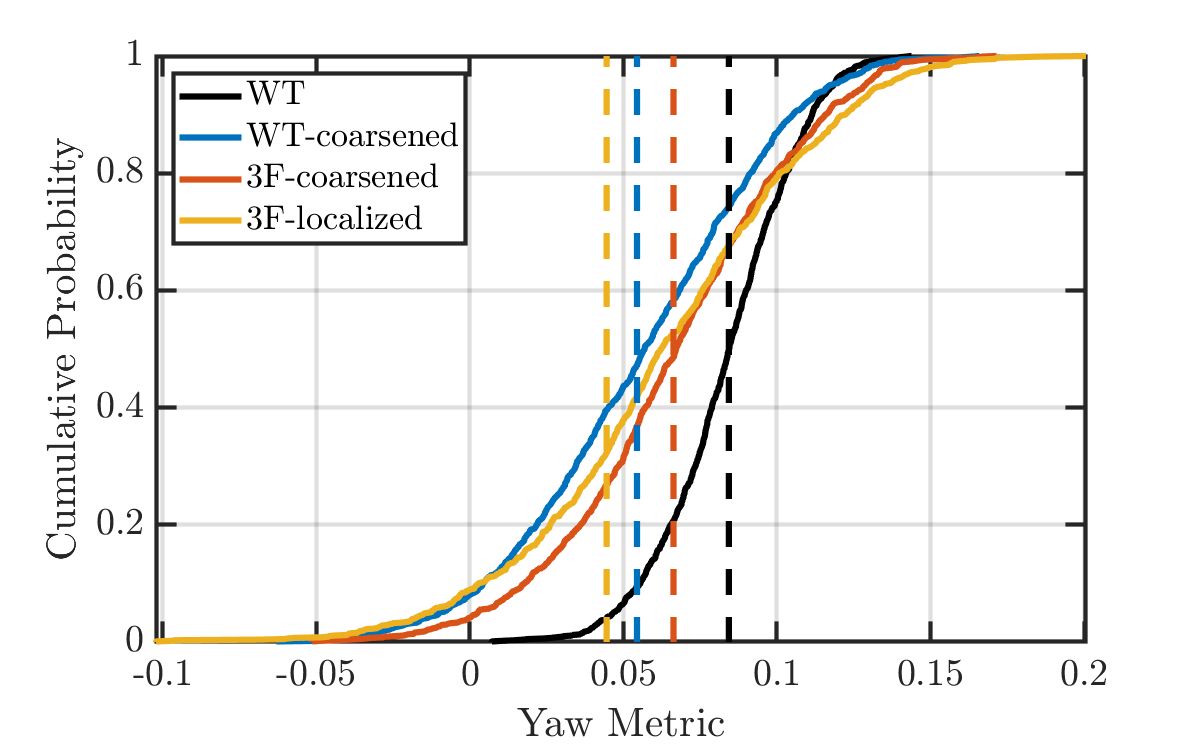
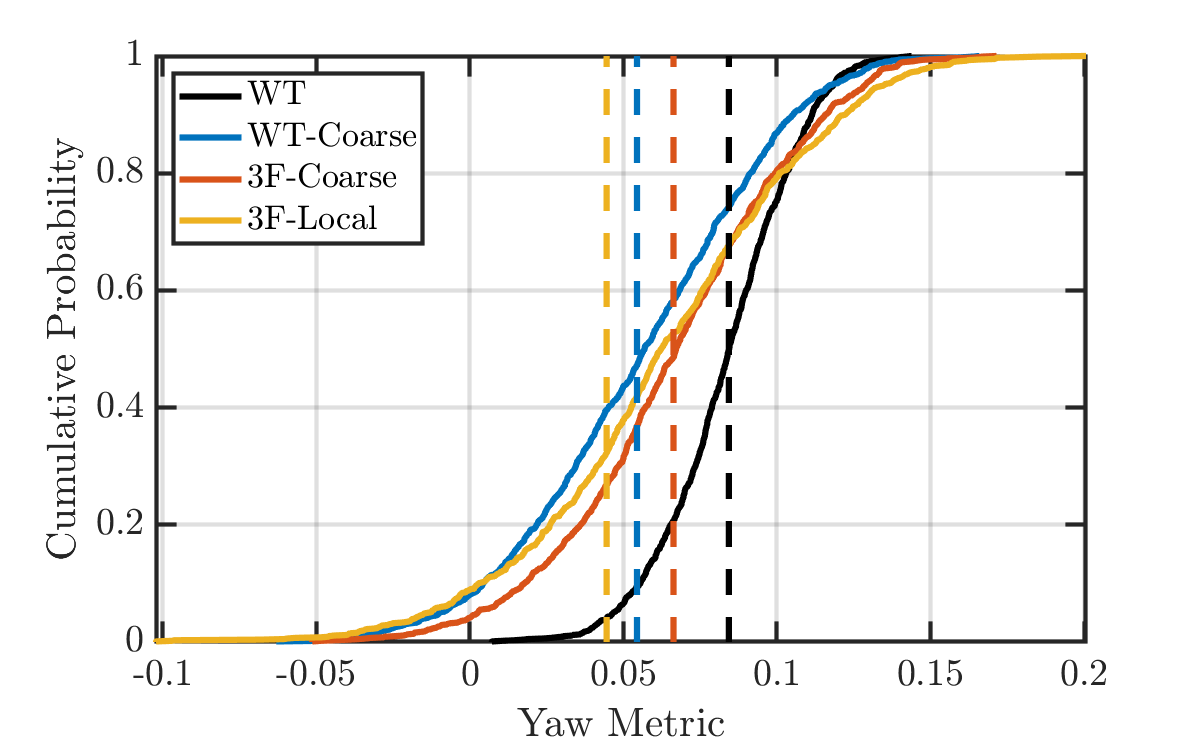
update red_data plots

Changed region(s): [[0.185, 0.092, 0.4008, 0.3373]]

diff --git a/code/image_gen/cba/Stanford_CFR25_147d_2_R2/reo_perf_metric_plots_reduced_data.m b/code/image_gen/cba/Stanford_CFR25_147d_2_R2/reo_perf_metric_plots_reduced_data.m
@@ -242,7 +242,7 @@ plot([perf_metrics_mean5.rightout.yaw2,perf_metrics_mean5.rightout.yaw2],[0 1],'
 set(gca,'FontWeight','bold');
 xlabel('Yaw Metric','FontWeight','bold');
 ylabel('Cumulative Probability','FontWeight','bold');
-legend('WT','WT-coarsened','3F-coarsened','3F-localized','FontWeight','bold','Location','northwest');
+legend('WT','WT-Coarse','3F-Coarse','3F-Local','FontWeight','bold','Location','northwest');
 grid on; box on;
 saveas(gcf,'images/reo_yaw_reduced_data.png');
 
@@ -252,11 +252,11 @@ saveas(gcf,'images/reo_yaw_reduced_data.png');
 %% Print metric stats
 fprintf('WT ')
 metric_stats(perf_metrics_MC2.rightout)
-fprintf('WT-coarsened ')
+fprintf('WT-Coarse ')
 metric_stats(perf_metrics_MC3.rightout)
-fprintf('3F-coarsened ')
+fprintf('3F-Coarse ')
 metric_stats(perf_metrics_MC4.rightout)
-fprintf('3F-localized ');
+fprintf('3F-Local ');
 metric_stats(perf_metrics_MC.rightout)
 
 end
